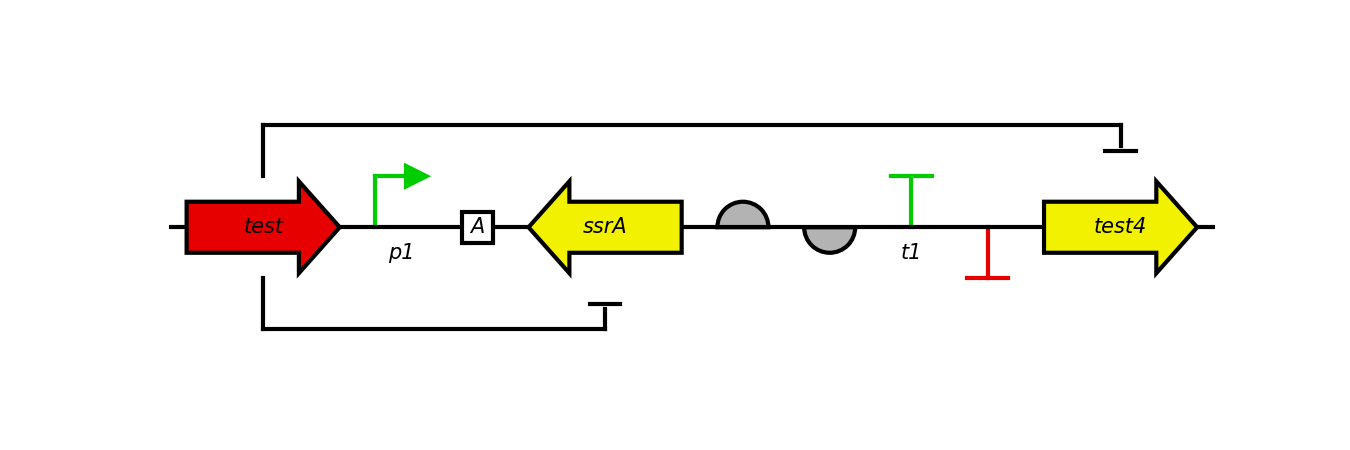
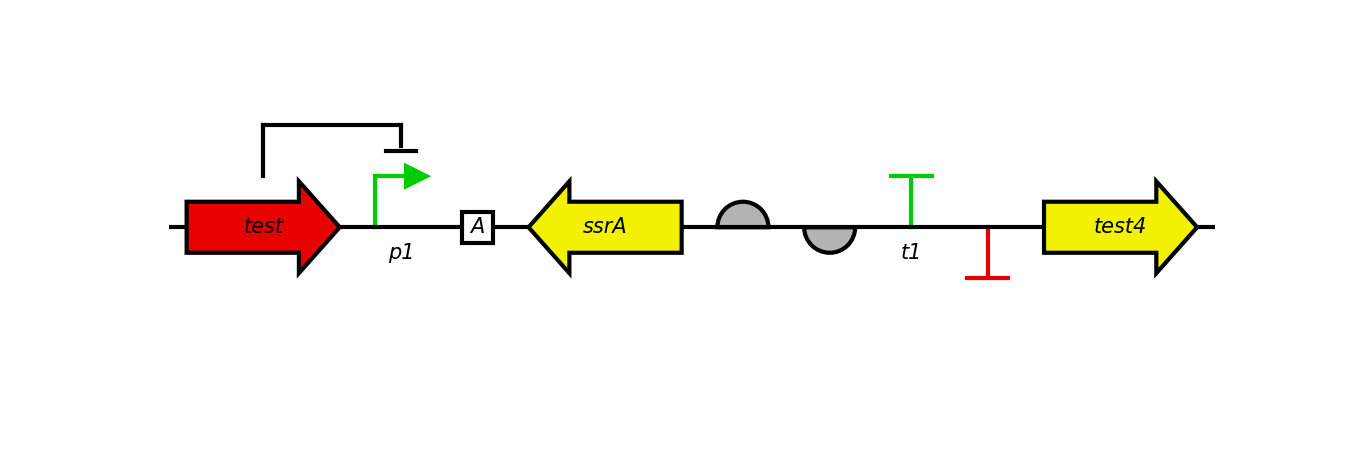
arc now has proper source and destination glyphs

diff --git a/HtmlPigeonListener.py b/HtmlPigeonListener.py
@@ -318,25 +318,19 @@ class HtmlPigeonListener(PigeonListener):
             if (self.type == 'CDS'):
                 self.y_offset = 0
 
-
-
             if (self.gettingArcLabels and not self.haveArcType):
                 for i in self.design:
-
                     if (i['name'] == self.name):
                         self.cur_arc['from_part'] = i
-
             elif (self.gettingArcLabels and self.haveArcType):
                 for i in self.design:
                     if (i['name'] == self.name):
                         self.cur_arc['to_part'] = i
-
             pass
 
         # Exit a parse tree produced by PigeonParser#label.
         def exitLabel(self, ctx: PigeonParser.LabelContext):
             print('exitLabel')
-
             pass
 
         # Enter a parse tree produced by PigeonParser#color.
@@ -375,11 +369,15 @@ class HtmlPigeonListener(PigeonListener):
         def exitArccommands(self, ctx: PigeonParser.ArccommandsContext):
             self.gettingArcLabels = False
             self.haveArcType = False
-            # need to add a check here that the arc command is valid
-            # arcs can only be drawn from pigeon command c to command p
-            self.arcs += [self.cur_arc]
-            self.cur_arc = {}
-            # print(self.cur_arc)
+            print(self.cur_arc['from_part']['type'])
+            print(self.cur_arc['to_part']['type'])
+
+            if ((self.cur_arc['from_part']['type'] != 'CDS') or (self.cur_arc['to_part']['type'] != 'Promoter')):
+                self.cur_arc = {}
+                print("ERROR: Invalid Arc. Arcs must be drawn from command c to command p")
+            else:
+                self.arcs += [self.cur_arc]
+                self.cur_arc = {}
             print('exitArccommands')
             pass
 

diff --git a/Pigeon.py b/Pigeon.py
@@ -31,7 +31,7 @@ def main(argv):
     design = HtmlPigeonListener.getDesignList(htmlPigeon)
     # print(design)
     arcs = HtmlPigeonListener.getArcList(htmlPigeon)
-    print(arcs)
+    # print(arcs)
 
     # need to play with this more - what exactly does it do can we play with it?
     fig = plt.figure(figsize=(design.__len__()/2, 1.5))  # plot size should be based on number of glyphs?
